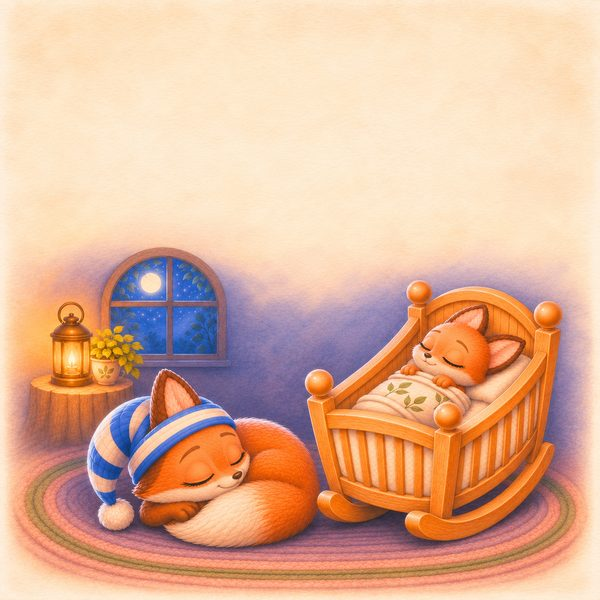
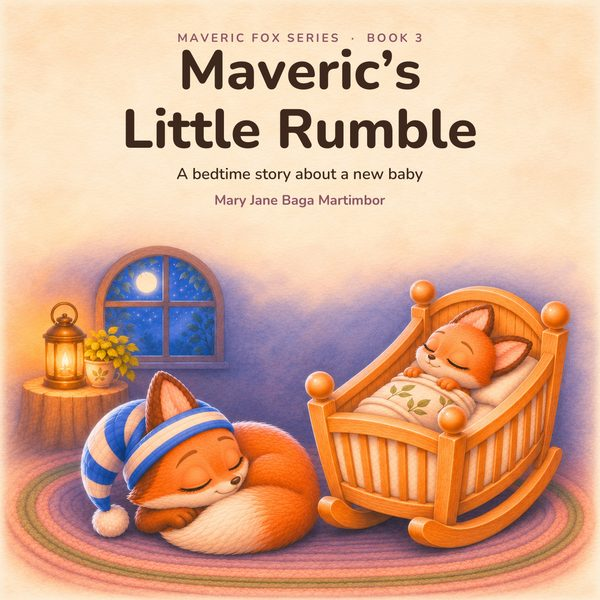
Maveric covers: Grumpy Day added, Little Rumble updated to titled cover
Claude-Session: https://claude.ai/code/session_016ma3RG8EWfnDooCBGwNrK2

diff --git a/assets/js/config.js b/assets/js/config.js
@@ -18,7 +18,7 @@ window.SITE_CONFIG = {
     "mavericks-big-snore":        { amazon: "https://www.amazon.com/dp/B0HR4T99KR", cover: "assets/img/covers/mavericks-big-snore.jpg", price: null },
     "mavericks-first-sleepover":  { amazon: "https://www.amazon.com/dp/B0HR57LKQG", cover: "assets/img/covers/mavericks-first-sleepover.jpg", price: null },
     "mavericks-little-rumble":    { amazon: "https://www.amazon.com/dp/B0HRQXDMMQ", cover: "assets/img/covers/mavericks-little-rumble.jpg", price: null },
-    "mavericks-grumpy-day":       { amazon: "https://www.amazon.com/dp/B0HC1NH3ND", cover: null, price: null },
+    "mavericks-grumpy-day":       { amazon: "https://www.amazon.com/dp/B0HC1NH3ND", cover: "assets/img/covers/mavericks-grumpy-day.jpg", price: null },
     "thick-to-thin-coloring":     { amazon: null, cover: null, price: null },
     "mindanao-tricycles":         { amazon: "https://www.amazon.com/dp/B0HQZC4JP9", cover: "assets/img/covers/mindanao-tricycles.jpg", price: null },
     "luzon-visayas-tricycles":    { amazon: null, cover: null, price: null },
